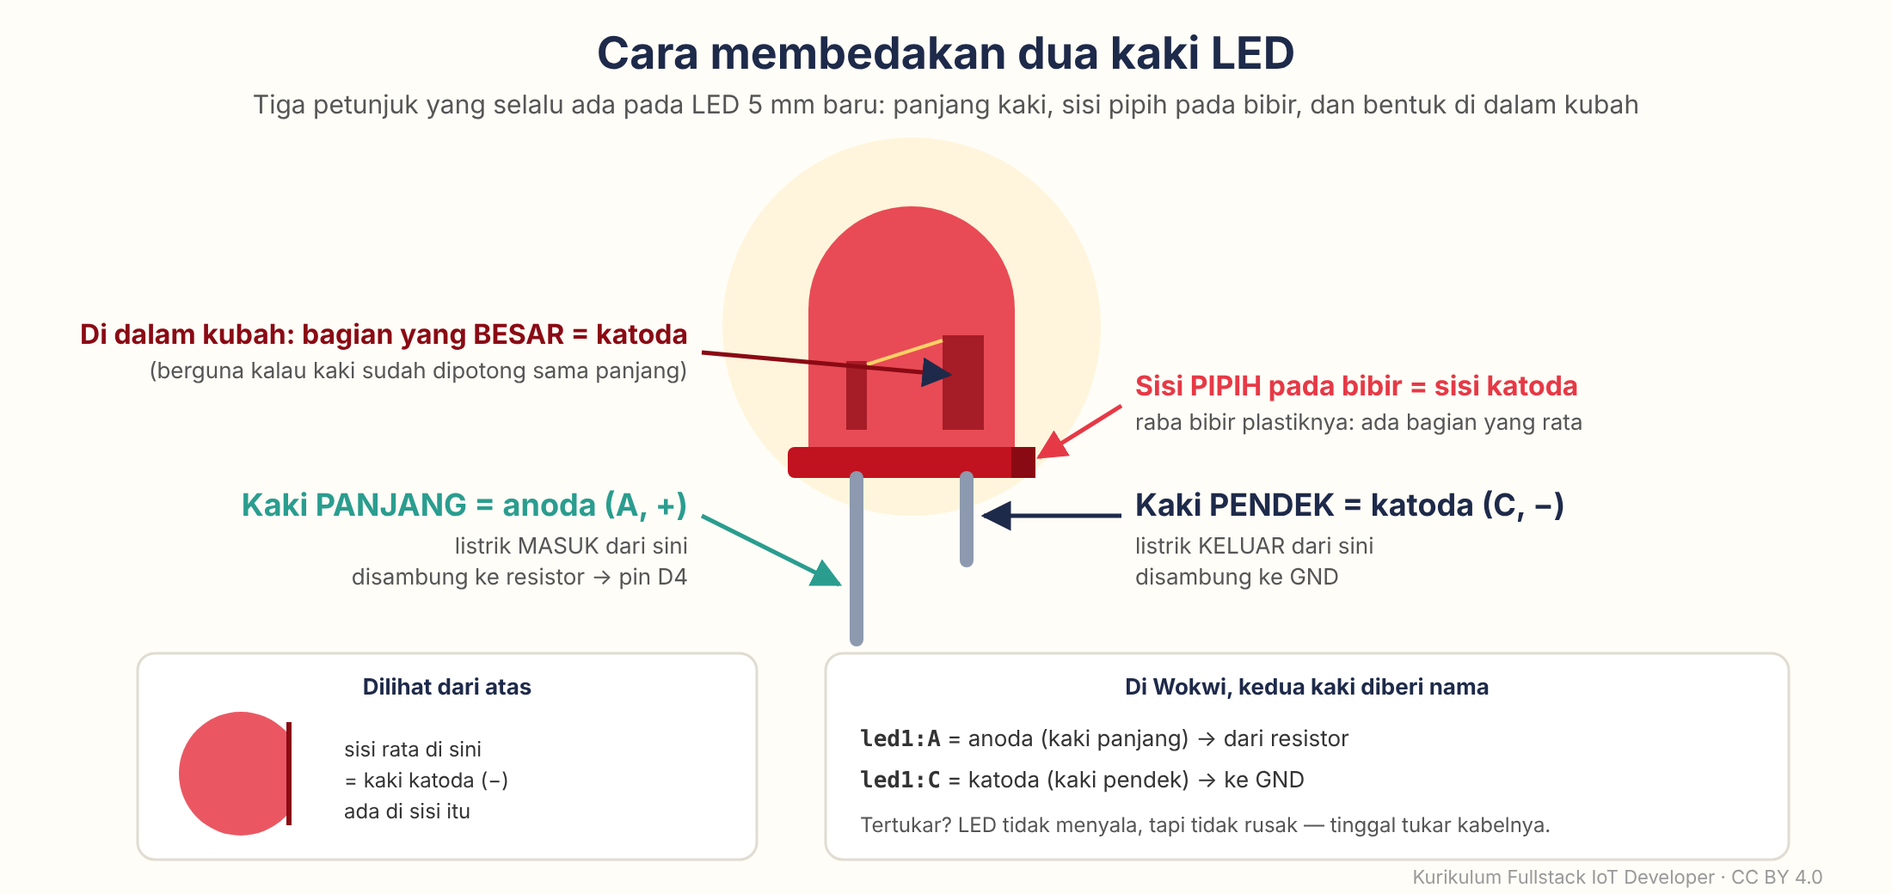
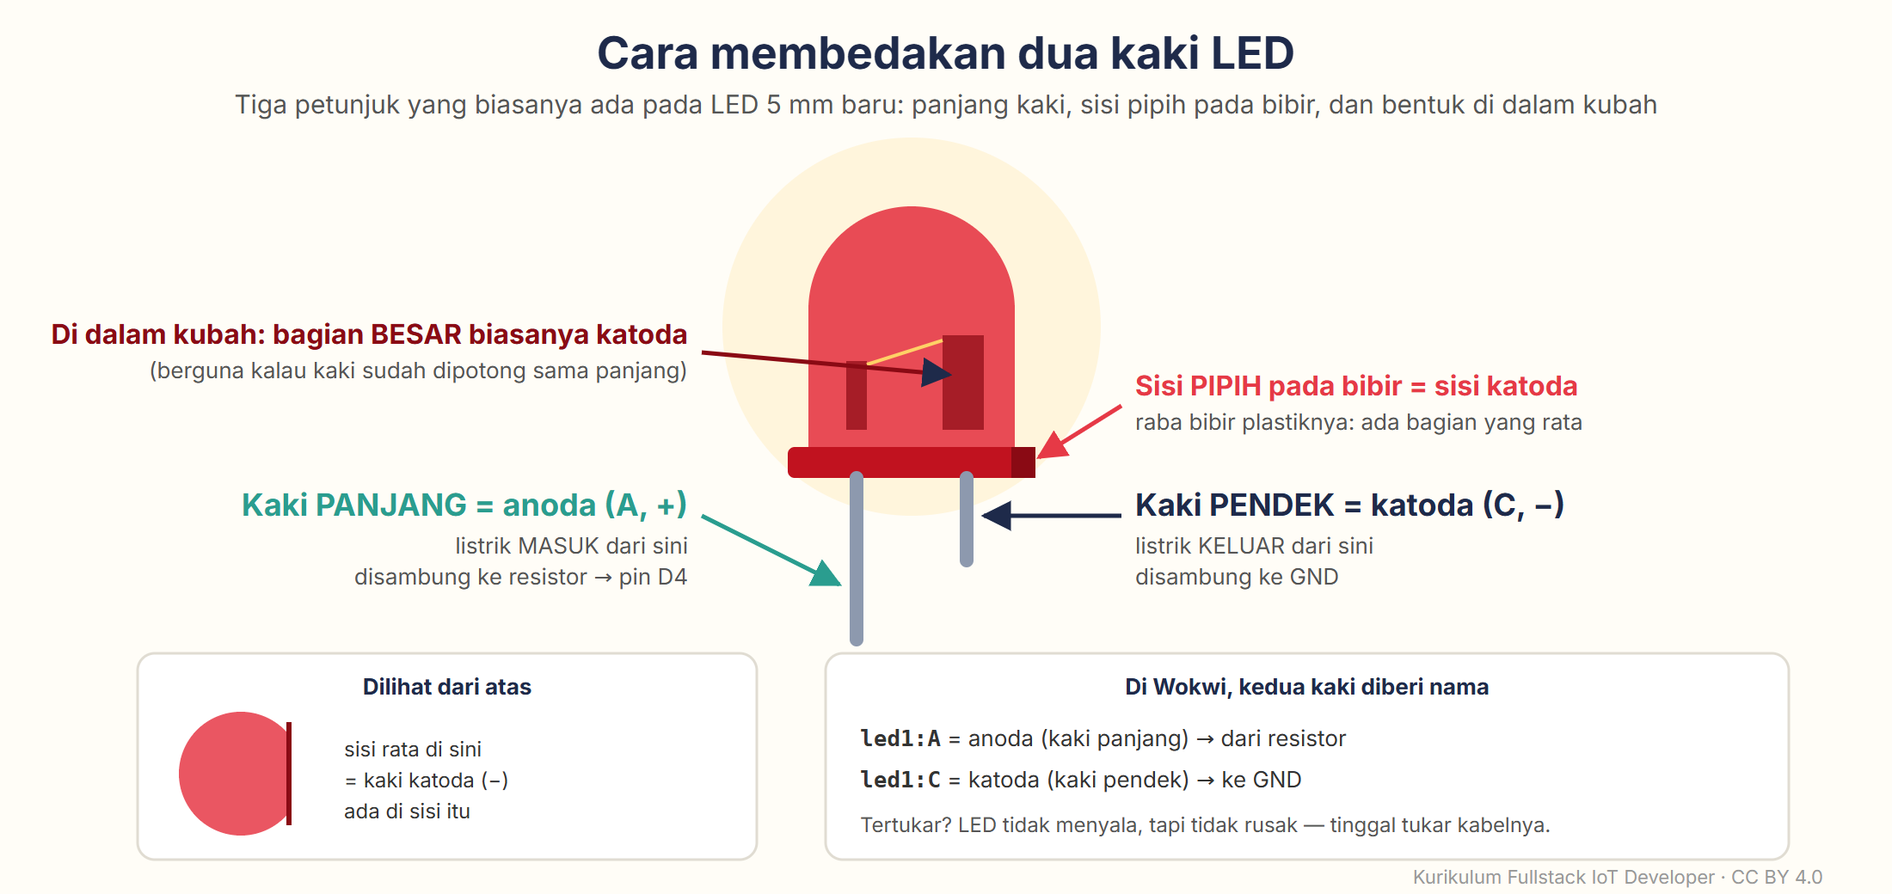
docs(modul-01,02): penyempurnaan akhir — gambar polaritas LED, koma EYD, baca ulang Modul 2
- Modul 1: subjudul dan label gambar polaritas-kaki-led kini memakai "biasanya" (petunjuk bentuk di dalam kubah tidak berlaku untuk semua merek LED); teks alt disesuaikan
- Modul 1: koma sebelum anak kalimat "karena/sehingga/asalkan" dihapus sesuai EYD V (6 tempat), seragam dengan Modul 2
- Modul 2: hasil baca ulang menyeluruh — alur dua langkah "Commit changes…" di GitHub seperti Modul 1, catatan notifikasi pembaruan Arduino IDE, entri glosarium probe, harga papan diseragamkan, perincian bertitik koma, dan perbaikan EYD kecil

diff --git a/fase-0-fondasi/modul-02-listrik-dan-unggah-pertama/README.md b/fase-0-fondasi/modul-02-listrik-dan-unggah-pertama/README.md
@@ -6,7 +6,7 @@
 
 ---
 
-Minggu lalu LED-mu berkedip di layar. Minggu ini LED-nya **sungguhan**: kamu akan memegang papan ESP32 asli, menancapkannya ke *breadboard* (papan rangkaian tanpa solder), memasang LED dan resistor dengan tanganmu sendiri, lalu mengirim program dari laptop ke chip lewat kabel USB. Di tengah jalan kita berhenti sebentar untuk memahami listrik dengan bahasa air dan keran — cukup untuk tahu kenapa resistor itu wajib, kenapa 5 V dari USB aman disentuh, tetapi 220 V dari stopkontak tidak, dan kenapa pin ESP32 hanya boleh "disuapi" 3,3 V.
+Minggu lalu LED-mu berkedip di layar. Minggu ini LED-nya **sungguhan**: kamu akan memegang papan ESP32 asli, menancapkannya ke *breadboard* (papan rangkaian tanpa solder), memasang LED dan resistor dengan tanganmu sendiri, lalu mengirim program dari laptop ke chip lewat kabel USB. Di tengah jalan kita berhenti sebentar untuk memahami listrik dengan bahasa air dan keran — cukup untuk tahu kenapa resistor itu wajib; kenapa 5 V dari USB aman disentuh, tetapi 220 V dari stopkontak tidak; dan kenapa pin ESP32 hanya boleh "disuapi" 3,3 V.
 
 Modul ini juga memuat kotak **"Kalau Tidak Jalan?" terbesar di seluruh kurikulum**. Bukan karena modul ini sulit, melainkan karena ini pertama kalinya tiga dunia bertemu: perangkat keras, *driver* (program kecil pengenal perangkat) di laptop, dan kabel USB. Kalau sesuatu macet, hampir pasti jawabannya sudah ada di kotak itu.
 
@@ -223,9 +223,9 @@ Papan ESP32 DevKit V1 "menunggangi" parit tengah: deretan pin atas di baris a, d
 
 **LED** (*light-emitting diode*) hanya mau dialiri arus **satu arah**: masuk lewat kaki **panjang** (anoda, +), keluar lewat kaki **pendek** (katoda, −). Dipasang terbalik tidak rusak, hanya tidak menyala. Gambar dari Modul 1 ini masih berlaku:
 
-![Cara membedakan dua kaki LED: kaki panjang adalah anoda (+), kaki pendek adalah katoda (−), sisi pipih di bibir plastik ada di sisi katoda](../modul-01-peta-besar-iot/aset/polaritas-kaki-led.png)
+![Cara membedakan dua kaki LED: kaki panjang adalah anoda (+), kaki pendek adalah katoda (−), sisi pipih di bibir plastik ada di sisi katoda, dan bagian besar di dalam kubah biasanya katoda](../modul-01-peta-besar-iot/aset/polaritas-kaki-led.png)
 
-Petunjuk "bagian logam yang lebih besar di dalam kubah = katoda" pada gambar itu berlaku untuk kebanyakan LED, tetapi tidak semua merek. Pegangan yang paling bisa diandalkan tetap kaki panjang dan sisi pipih.
+Petunjuk ketiga di gambar itu — bagian logam yang lebih besar di dalam kubah biasanya katoda — tidak berlaku untuk semua merek. Pegangan yang paling bisa diandalkan tetap kaki panjang dan sisi pipih.
 
 **Resistor** tidak punya arah. Nilainya dibaca dari **gelang warna**: dua gelang pertama = angka, gelang ketiga = jumlah nol di belakangnya, gelang keempat (emas) = toleransi ±5%. Tiga nilai yang akan sering kamu pakai:
 
@@ -327,7 +327,7 @@ Tidak ada yang berbahaya bagi manusia di modul ini — tegangannya hanya 5 V. Ya
 2. **Alas kerja bukan logam**, dan jangan meletakkan papan di atas kunci, gunting, atau kaleng. Pin di bawah papan bisa saling tersambung.
 3. **Sentuh benda logam besar** (kaki meja besi, rangka PC) sebelum memegang papan di ruangan ber-AC yang kering, untuk melepas listrik statis dari tubuh. Tidak wajib, tetapi kebiasaan baik.
 4. **Jangan sambungkan apa pun yang tegangannya lebih dari 3,3 V ke pin GPIO.** VIN hanya untuk diukur minggu ini.
-5. **Papan terasa panas atau berbau?** Cabut. Cari korsletingnya dengan tenang. Papan ESP32 cukup tangguh; regulator yang terbakar pun biasanya hanya berarti "beli papan baru Rp50 ribu", bukan bencana.
+5. **Papan terasa panas atau berbau?** Cabut. Cari korsletingnya dengan tenang. Papan ESP32 cukup tangguh; regulator yang terbakar pun biasanya hanya berarti "beli papan baru Rp45–80 ribu", bukan bencana.
 6. **Satu perubahan, satu uji.** Mengubah tiga hal sekaligus lalu gagal = tidak tahu mana penyebabnya. Ini kebiasaan teknisi, dan juga kebiasaan programmer.
 
 ---
@@ -362,7 +362,7 @@ Pasang *probe*: **hitam ke lubang COM**, **merah ke lubang VΩmA** (bukan lubang
 1. Putar sakelar ke **Ω 2000** (kadang tertulis **2k**).
 2. Ambil resistor 220 Ω yang belum terpasang. Tempelkan satu *probe* ke tiap kakinya (arah bebas). Jangan pegang kedua kaki dengan jari karena tubuhmu ikut terukur.
 3. Layar menunjukkan sekitar **220** (210–230 masih normal).
-4. Ganti dengan resistor 10 kΩ: layar menunjukkan **"1"** di kiri — artinya "di luar jangkauan". Putar sakelar ke **Ω 20k**: sekitar **10,0** (satuannya kΩ). Sekarang kamu bisa "membaca" resistor tanpa menghafal warna.
+4. Ganti dengan resistor 10 kΩ: layar menunjukkan **"1"** di kiri — artinya "di luar jangkauan". Putar sakelar ke **Ω 20k**: sekitar **10,0** (di layar tertulis 10.0; satuannya kΩ). Sekarang kamu bisa "membaca" resistor tanpa menghafal warna.
 
 **3. Sambungan breadboard** (USB tetap dicabut). Ujung *probe* biasanya terlalu besar untuk masuk ke lubang breadboard, jadi kita pakai dua kabel jumper cadangan sebagai "perpanjangan".
 
@@ -396,7 +396,7 @@ Tulis hasilnya di catatanmu (misalnya: 3V3 = 3,29 V; VIN = 4,71 V; 220 Ω terbac
    - **Windows**: klik dua kali file `.exe` (biasanya ada di folder *Downloads*). Kalau Windows bertanya *Do you want to allow this app to make changes to your device?*, klik **Yes** (**Ya**). Lalu **I Agree** → pilih untuk siapa (biarkan bawaan) → **Next** → **Install** → **Finish**. Kalau muncul jendela *Windows Security* yang menanyakan pemasangan *driver* dari Arduino, klik **Install** (itu *driver* untuk papan Arduino resmi; tidak mengganggu).
    - **macOS**: buka file `.dmg`, seret ikon Arduino IDE ke folder *Applications*, lalu buka dari *Applications*. Kalau muncul pertanyaan *"…downloaded from the Internet. Are you sure you want to open it?"*, klik **Open**. Kalau macOS menolak membukanya, buka **System Settings → Privacy & Security**, gulir ke bagian *Security*, lalu klik **Open Anyway**.
    - **Linux (Ubuntu)**: ada beberapa langkah tambahan — buka lipatan *Langkah khusus Linux* tepat di bawah daftar ini.
-6. Buka Arduino IDE. Saat pertama kali dibuka, ia memasang beberapa perlengkapan sendiri (ada tulisan kemajuan di panel bawah dan di pojok kanan bawah, ±1–2 menit). Biarkan sampai selesai. Windows mungkin menanyakan izin *firewall* → klik **Allow access**.
+6. Buka Arduino IDE. Saat pertama kali dibuka, ia memasang beberapa perlengkapan sendiri (ada tulisan kemajuan di panel bawah dan di pojok kanan bawah, ±1–2 menit). Biarkan sampai selesai. Windows mungkin menanyakan izin *firewall* → klik **Allow access**. Kalau di pojok kanan bawah muncul notifikasi tentang pembaruan (*update*), boleh diabaikan dulu.
 
 <details>
 <summary><b>Langkah khusus Linux (Ubuntu)</b> — pengguna Windows dan macOS lewati saja</summary>
@@ -734,7 +734,7 @@ Sekarang "rusak" satu per satu. Ingat: **satu perubahan, satu uji.** Hentikan si
 | Percobaan | Caranya | Yang terlihat | Pelajaran untuk papan asli |
 | :--- | :--- | :--- | :--- |
 | **A. LED terbalik** | Di `diagram.json`, cari baris `"wokwi-led"` dan hapus bagian `, "flip": "1"` sehingga tersisa `"attrs": {"color": "red"}`. Kaki LED bertukar tempat. | LED **tidak pernah** menyala, padahal simulasi jalan tanpa error. | Gejala "diam tanpa error" → cek arah LED dulu. |
-| **B. Kode dan kabel tidak sepakat** | Di `sketch.ino`, ubah `PIN_LED = 4` menjadi `PIN_LED = 5`. | LED tidak menyala: kabelnya di D4, program menyalakan D5. | Nomor pin di kode harus sama dengan tulisan di papan. Sebagian besar kasus "LED tidak nyala" di Modul 5–6 penyebabnya ini. |
+| **B. Kode dan kabel tidak sepakat** | Di `sketch.ino`, ubah `PIN_LED = 4` menjadi `PIN_LED = 5`. | LED tidak menyala: kabelnya di D4, program menyalakan D5. | Nomor pin di kode harus sama dengan tulisan di papan. Sebagian besar kasus "LED tidak menyala" di Modul 5–6 penyebabnya ini. |
 | **C. Resistor 10 kΩ** | Di `diagram.json`, pada baris `"wokwi-resistor"`, ubah `"value": "220"` menjadi `"value": "10000"`. | Di Wokwi, LED **tetap terang**. | Simulator tidak meniru redupnya LED. Coba di papan asli (USB dicabut dulu!): ganti resistornya dengan 1 kΩ, lalu 10 kΩ — LED makin redup. Simulator ≠ kenyataan. |
 | **D. Tanpa resistor** | Ubah `"value"` resistor menjadi `"0"` (0 ohm = sama dengan kabel biasa, alias tanpa resistor). | Di Wokwi, LED berkedip biasa saja. | **Jangan ditiru di papan asli.** Wokwi tidak meniru komponen yang rusak — perlindungan harus datang dari kebiasaanmu. |
 
@@ -750,7 +750,7 @@ Kesimpulan yang perlu dibawa pulang: simulator sangat berguna untuk menguji **lo
 
 1. **Foto rangkaian** breadboard-mu dengan HP saat LED menyala, lalu kirim ke laptop (lewat WhatsApp Web, email, atau kabel). Simpan sebagai `rangkaian-modul-02.jpg` di folder `belajar-iot` di laptopmu.
 2. **Ambil tangkapan layar** Serial Monitor yang memperlihatkan `=== ESP32 siap! ===` dan balasan `Perintah 1 diterima` (Windows: **Win + Shift + S**, pilih area, klik notifikasi yang muncul, lalu simpan dengan **Ctrl + S**; macOS: **Cmd + Shift + 4**, gambarnya langsung tersimpan di Desktop). Simpan sebagai `serial-monitor-modul-02.png`.
-3. Di GitHub, buka repositorimu → **Add file → Create new file**. Di kotak nama file ketik **`modul-02/modul02_blink.ino`** — garis miring otomatis membuat folder `modul-02`. Tempel isi `modul02_blink.ino`-mu (salin dari Arduino IDE: klik di editor → **Ctrl + A** → **Ctrl + C**), lalu klik **Commit changes**.
+3. Di GitHub, buka repositorimu → **Add file → Create new file**. Di kotak nama file ketik **`modul-02/modul02_blink.ino`** — garis miring otomatis membuat folder `modul-02`. Tempel isi `modul02_blink.ino`-mu (salin dari Arduino IDE: klik di editor → **Ctrl + A** → **Ctrl + C**), lalu klik **Commit changes…** (kanan atas) → **Commit changes**.
 4. Ulangi untuk **`modul-02/modul02_serial.ino`**.
 5. Buka folder `modul-02` di GitHub, lalu **Add file → Upload files**. Seret kedua gambar ke area unggah, lalu **Commit changes**.
 6. Buka `README.md` repositorimu → ikon pensil (*Edit*) → tambahkan di bawah catatan Modul 1:
@@ -765,7 +765,7 @@ Kesimpulan yang perlu dibawa pulang: simulator sangat berguna untuk menguji **lo
    - Masalah yang saya temui & cara mengatasinya: …
    ```
 
-   Klik **Commit changes**. Bagian "masalah yang saya temui" adalah bagian terpenting — itulah catatan yang akan kamu cari lagi tiga bulan dari sekarang.
+   Klik **Commit changes…** → **Commit changes**. Bagian "masalah yang saya temui" adalah bagian terpenting — itulah catatan yang akan kamu cari lagi tiga bulan dari sekarang.
 
 ---
 
@@ -874,7 +874,7 @@ Paketnya besar (±2 GB). Jaringan kampus atau kantor kadang memblokir `github.co
 1. Klik **INSTALL** lagi — bagian yang sudah terunduh disimpan dan tidak diulang.
 2. Kalau muncul pesan seperti `Error: 4 DEADLINE_EXCEEDED: net/http: request canceled (Client.Timeout …)`, artinya koneksimu terlalu lambat untuk batas waktu bawaan (60 detik). Perpanjang batas waktunya:
    1. Tutup Arduino IDE sepenuhnya.
-   2. Buka file pengaturannya. Di **Windows**: tekan **Win + R**, ketik `notepad %USERPROFILE%\.arduinoIDE\arduino-cli.yaml`, lalu tekan Enter. Di **macOS/Linux**: buka Terminal dan ketik `nano ~/.arduinoIDE/arduino-cli.yaml`.
+   2. Buka file pengaturannya. Di **Windows**: tekan **Win + R**, ketik `notepad %USERPROFILE%\.arduinoIDE\arduino-cli.yaml`, lalu tekan Enter. Di **macOS/Linux**: buka Terminal, ketik `nano ~/.arduinoIDE/arduino-cli.yaml`, lalu tekan Enter.
    3. Tambahkan dua baris ini di bagian paling bawah (spasi di awal baris kedua penting; kalau sudah ada baris `network:`, cukup tambahkan baris kedua di bawahnya):
 
       ```yaml
@@ -952,7 +952,7 @@ Saat dinyalakan, chip membaca level beberapa pin untuk memutuskan "mode apa saya
 
 Saat kamu mengunggah, Arduino IDE memanggil **esptool** (program buatan Espressif, ikut terpasang bersama paket papan). Program esptool menggerakkan dua jalur sinyal di chip penerjemah USB — **RTS** dan **DTR** — yang di papan DevKit dihubungkan lewat dua transistor kecil ke **EN** (dari RTS) dan **GPIO 0** (dari DTR). Urutan sinyalnya meniru "tahan BOOT, tekan EN": chip *restart* dengan GPIO 0 rendah, lalu masuk mode unduh (*ROM bootloader*, program permanen di dalam chip, bukan di *flash*).
 
-Setelah itu esptool "menyapa" chip (`Connecting...`), mengirim program pembantu kecil ke RAM (`Uploading stub flasher...`), menaikkan kecepatan (`Changing baud rate to 921600...`), menghapus dan menulis *flash* blok demi blok (`Writing at 0x00010000…`), memeriksa hasilnya (`Hash of data verified.`), dan terakhir menggerakkan RTS untuk me-*restart* chip (`Hard resetting via RTS pin...`).
+Setelah itu, esptool "menyapa" chip (`Connecting...`), mengirim program pembantu kecil ke RAM (`Uploading stub flasher...`), menaikkan kecepatan (`Changing baud rate to 921600...`), menghapus dan menulis *flash* blok demi blok (`Writing at 0x00010000…`), memeriksa hasilnya (`Hash of data verified.`), dan terakhir menggerakkan RTS untuk me-*restart* chip (`Hard resetting via RTS pin...`).
 
 Pesan `rst:0x1 (POWERON_RESET),boot:0x13 (SPI_FAST_FLASH_BOOT)` di Serial Monitor adalah laporan dari *ROM bootloader*: alasan *restart* (0x1 = baru dinyalakan; 0xc = *restart* oleh program; 0x10 = *watchdog*, si "anjing penjaga" yang me-*restart* chip yang macet) dan mode *boot* (0x13 = *boot* normal dari *flash*; 0x3 = mode unduh). Angka-angka ini menjadi petunjuk berharga di Modul 8 saat kita mendiagnosis *restart* misterius.
 
@@ -1046,7 +1046,7 @@ Sumbangan Modul 2 ke proyek benang merah adalah **LED status Node 1** — dan ke
 
 LED merah di D4 yang kamu pasang minggu ini **tetap di tempatnya**. Mulai Modul 8, LED ini menjadi "detak jantung" Node 1 "Rumah": kedip pelan = program jalan normal, nyala terus = sedang menyambung ke WiFi (Modul 10), kedip cepat = ada masalah (sensor gagal dibaca, MQTT putus). Di Modul 5 kita menetapkan peta pin resmi proyek, dan D4 sudah dicadangkan untuk LED status ini. Jadi, **jangan bongkar breadboard-mu**. Simpan utuh di kotak; Modul 3 dan Modul 5 memakainya lagi.
 
-Tulis juga satu baris di `visi-proyek.md`-mu (dari ➕ Modul 1), di bagian 1 (*Tempat*): *"Sumber listrik Node 1 rencananya: kepala cas USB 5 V di … (ruang/kamar)."* Caranya di GitHub: buka `visi-proyek.md` → ikon pensil → tambahkan barisnya → **Commit changes**. Setelah minggu ini kamu tahu bahwa 5 V dari kepala cas HP cukup untuk menghidupkan ESP32 tanpa laptop — dan itulah yang akan dipakai Node 1 sepanjang tahun.
+Tulis juga satu baris di `visi-proyek.md`-mu (dari ➕ Modul 1), di bagian 1 (*Tempat*): *"Sumber listrik Node 1 rencananya: kepala cas USB 5 V di … (ruang/kamar)."* Caranya di GitHub: buka `visi-proyek.md` → ikon pensil → tambahkan barisnya → **Commit changes…** → **Commit changes**. Setelah minggu ini kamu tahu bahwa 5 V dari kepala cas HP cukup untuk menghidupkan ESP32 tanpa laptop — dan itulah yang akan dipakai Node 1 sepanjang tahun.
 
 ---
 
@@ -1073,6 +1073,7 @@ Tulis juga satu baris di `visi-proyek.md`-mu (dari ➕ Modul 1), di bagian 1 (*T
 | **Regulator** (AMS1117) | Komponen di papan yang menurunkan 5 V menjadi 3,3 V. |
 | **VIN / 3V3 / GPIO** | Pin tembusan USB (±5 V) / pin keluaran 3,3 V / pin sinyal serbaguna (level 3,3 V). |
 | **Multimeter** | Alat ukur tegangan (V), hambatan (Ω), dan sambungan (bip). |
+| ***Probe*** (batang penguji) | Dua kabel berujung logam milik multimeter: merah ke lubang VΩmA, hitam ke lubang COM. |
 | **Kontinuitas** | Mode multimeter yang berbunyi bip bila dua titik tersambung. |
 | **Arduino IDE** | Aplikasi di laptop untuk menulis, menerjemahkan, dan mengunggah kode ke papan; "Wokwi versi desktop". |
 | **Boards Manager** | Bagian Arduino IDE untuk memasang paket papan (misalnya esp32 3.3.x). |

diff --git a/fase-0-fondasi/modul-01-peta-besar-iot/README.md b/fase-0-fondasi/modul-01-peta-besar-iot/README.md
@@ -188,7 +188,7 @@ Beri nama filenya **`modul-01-blink.png`** (Windows/Linux: klik kanan file → *
 > [!IMPORTANT]
 > **🎉 Selamat — kamu baru saja memprogram sebuah mikrokontroler.** Serius. Kode yang kamu tempel itu bukan "pura-pura": kode yang sama persis, tanpa diubah satu huruf pun, akan kamu unggah ke ESP32 sungguhan di Modul 2, dan LED di mejamu akan berkedip dengan irama yang sama. Yang berbeda hanya *tempat* chip-nya berjalan — hari ini di dalam browser, minggu depan di papan seharga Rp50 ribu.
 
-**Ingin menyimpan proyeknya?** Klik **SAVE** (nomor 5). Wokwi akan meminta kamu masuk (*login*) atau mendaftar — gratis, bisa pakai akun Google. Setelah tersimpan, tombol **SHARE** memberi tautan yang bisa kamu kirim ke siapa pun. Kalau tidak disimpan, proyek hilang saat tab ditutup; tidak masalah, karena kodenya ada di materi ini.
+**Ingin menyimpan proyeknya?** Klik **SAVE** (nomor 5). Wokwi akan meminta kamu masuk (*login*) atau mendaftar — gratis, bisa pakai akun Google. Setelah tersimpan, tombol **SHARE** memberi tautan yang bisa kamu kirim ke siapa pun. Kalau tidak disimpan, proyek hilang saat tab ditutup; tidak masalah karena kodenya ada di materi ini.
 
 ---
 
@@ -307,7 +307,7 @@ Rangkaian tadi hanya tiga komponen dan tiga kabel — susunannya sama dengan yan
 - **LED** hanya mau dilewati arus **satu arah**. Listrik masuk dari **kaki panjang** (anoda, tanda `A` atau `+`), keluar dari **kaki pendek** (katoda, `C` atau `−`). Dipasang terbalik? Tidak menyala — tapi tidak rusak, jadi jangan takut mencoba.
 - **GND** (*ground*, "tanah") adalah titik nol. Setiap rangkaian harus "pulang" ke GND supaya arus bisa mengalir memutar, seperti air yang harus kembali ke tandon.
 
-![Cara membedakan dua kaki LED: kaki panjang adalah anoda (+), kaki pendek adalah katoda (−), ada sisi pipih pada bibir di sisi katoda, dan bagian yang besar di dalam kubah adalah katoda; ada inset tampak atas dan penjelasan nama pin di Wokwi](aset/polaritas-kaki-led.png)
+![Cara membedakan dua kaki LED: kaki panjang adalah anoda (+), kaki pendek adalah katoda (−), ada sisi pipih pada bibir di sisi katoda, dan bagian yang besar di dalam kubah biasanya katoda; ada inset tampak atas dan penjelasan nama pin di Wokwi](aset/polaritas-kaki-led.png)
 
 Cukup sekian dulu soal listrik. Modul 2 seluruhnya tentang ini — dengan analogi tandon air dan satu rumus saja.
 
@@ -315,7 +315,7 @@ Cukup sekian dulu soal listrik. Modul 2 seluruhnya tentang ini — dengan analog
 
 ### 7. Simulator vs papan asli: apa yang bisa dan tidak bisa dilakukan Wokwi
 
-**Wokwi** adalah ESP32 tiruan yang berjalan di browser: CPU-nya ditiru persis, sehingga kode yang jalan di Wokwi hampir selalu jalan di papan asli. Enaknya: gratis, tidak bisa terbakar, tidak ada kabel kendur, bisa dicoba di mana saja. Itulah mengapa sekitar 90% praktik Modul 1–9 bisa dikerjakan di Wokwi.
+**Wokwi** adalah ESP32 tiruan yang berjalan di browser: CPU-nya ditiru persis sehingga kode yang jalan di Wokwi hampir selalu jalan di papan asli. Enaknya: gratis, tidak bisa terbakar, tidak ada kabel kendur, bisa dicoba di mana saja. Itulah mengapa sekitar 90% praktik Modul 1–9 bisa dikerjakan di Wokwi.
 
 Yang **tidak** bisa ditiru Wokwi — dan ini alasan papan asli tetap penting (istilah di tabel ini milik Modul 2; sekadar gambaran, tidak perlu paham sekarang):
 
@@ -360,7 +360,7 @@ Artinya, ada **dua kebiasaan** yang perlu kamu mulai hari ini:
 
 Karena itu pula, setiap modul di kurikulum ini membuka kotak 🚨 dengan tabel **"kode lama → yang benar untuk versi kita"**.
 
-### 10. Keselamatan dasar (singkat, karena minggu ini belum ada perangkat keras)
+### 10. Keselamatan dasar (singkat karena minggu ini belum ada perangkat keras)
 
 Satu kalimat untuk dibawa ke Modul 2: **semua yang kita pakai di kurikulum ini bertegangan rendah dari USB — aman disentuh tangan, tidak bisa menyetrum.** USB memberi 5 V ke papan; papan menurunkannya menjadi 3,3 V untuk chip dan pin-pinnya (itulah angka `HIGH = 3,3 V` di Konsep 5). Keduanya aman. Listrik PLN 220 V **tidak pernah** kita sentuh: kurikulum ini tidak menyambungkan apa pun ke 220 V; cara kerja relay untuk 220 V hanya dibahas sebagai wawasan dan peringatan.
 
@@ -448,7 +448,7 @@ Ada dua cara menambah komponen di Wokwi. **Pilih salah satu.** Kalau ingin menco
 Kalau kamu bandingkan dengan yang pertama, bedanya: **dua komponen baru** (`r2` dan `led2` hijau) dan **tiga kabel baru** untuk jalur D18 (kabel biru dari D18 ke resistor, dari resistor ke LED, dan kabel hitam dari kaki C LED hijau ke kaki C LED merah). File ini juga ada di [`kode/02-blink-dua-led/diagram.json`](kode/02-blink-dua-led/diagram.json).
 
 > [!TIP]
-> **Cara menyalin isi file dari GitHub** (berlaku untuk semua file di folder `kode/`): klik nama filenya → di kanan atas kotak isi file ada tombol **Raw** dan ikon **salin** (dua kotak bertumpuk, *Copy raw file*) → klik ikon salin → tempel di tujuan. Jangan menyalin dari tampilan "cantik"-nya, karena nomor baris atau format bisa ikut tersalin.
+> **Cara menyalin isi file dari GitHub** (berlaku untuk semua file di folder `kode/`): klik nama filenya → di kanan atas kotak isi file ada tombol **Raw** dan ikon **salin** (dua kotak bertumpuk, *Copy raw file*) → klik ikon salin → tempel di tujuan. Jangan menyalin dari tampilan "cantik"-nya karena nomor baris atau format bisa ikut tersalin.
 
 Apa pun caranya, sekarang ganti kode di `sketch.ino` dengan ini (juga ada di [`kode/02-blink-dua-led/sketch.ino`](kode/02-blink-dua-led/sketch.ino)):
 
@@ -684,7 +684,7 @@ Daftar lengkap beserta harga ada di [Silabus §5.2](../../SILABUS.md#52-kit-a--e
 
 </details>
 
-Perkiraan total Tahap 1: **Rp300–620 ribu** (Oktober 2026, bisa berubah). Paket "ESP32 starter kit" sering lebih murah — boleh, asalkan isinya memuat tabel **Wajib** di atas dan papannya benar. Syarat lulus modul ini: **minimal tabel Wajib sudah dipesan sekarang**; sisa Tahap 1 boleh menyusul, paling lambat sebelum Modul 5.
+Perkiraan total Tahap 1: **Rp300–620 ribu** (Oktober 2026, bisa berubah). Paket "ESP32 starter kit" sering lebih murah — boleh asalkan isinya memuat tabel **Wajib** di atas dan papannya benar. Syarat lulus modul ini: **minimal tabel Wajib sudah dipesan sekarang**; sisa Tahap 1 boleh menyusul, paling lambat sebelum Modul 5.
 
 > [!WARNING]
 > Sebelum klik "beli", cek **tiga hal**: (1) foto papan menunjukkan **30 pin** dan tulisan **ESP-WROOM-32**, (2) kabelnya **kabel data**, (3) paket resistornya mengandung **220 Ω**. Tiga kesalahan ini menyumbang hampir semua "Modul 2 saya macet".
@@ -738,7 +738,7 @@ Latihan: tulis satu pertanyaan "versi ✅" tentang hal apa pun yang membingungka
 
 ## 🚨 Kalau Tidak Jalan?
 
-Kotak ini selalu dibuka dengan tabel **"kode lama → yang benar untuk versi kita"**, karena 80% masalah pemula berasal dari tutorial lain yang ditulis untuk versi berbeda.
+Kotak ini selalu dibuka dengan tabel **"kode lama → yang benar untuk versi kita"** karena 80% masalah pemula berasal dari tutorial lain yang ditulis untuk versi berbeda.
 
 | Yang sering ditemui di tutorial lain | Yang benar untuk kurikulum ini (core arduino-esp32 3.3.x, Wokwi) | Kenapa |
 | :--- | :--- | :--- |
